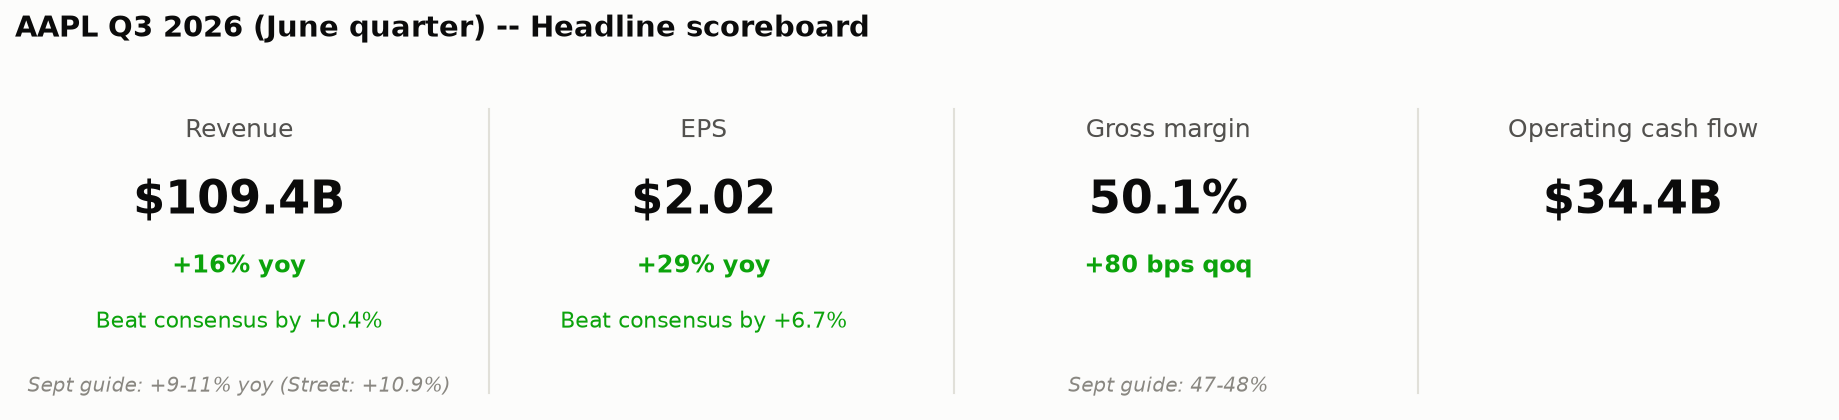
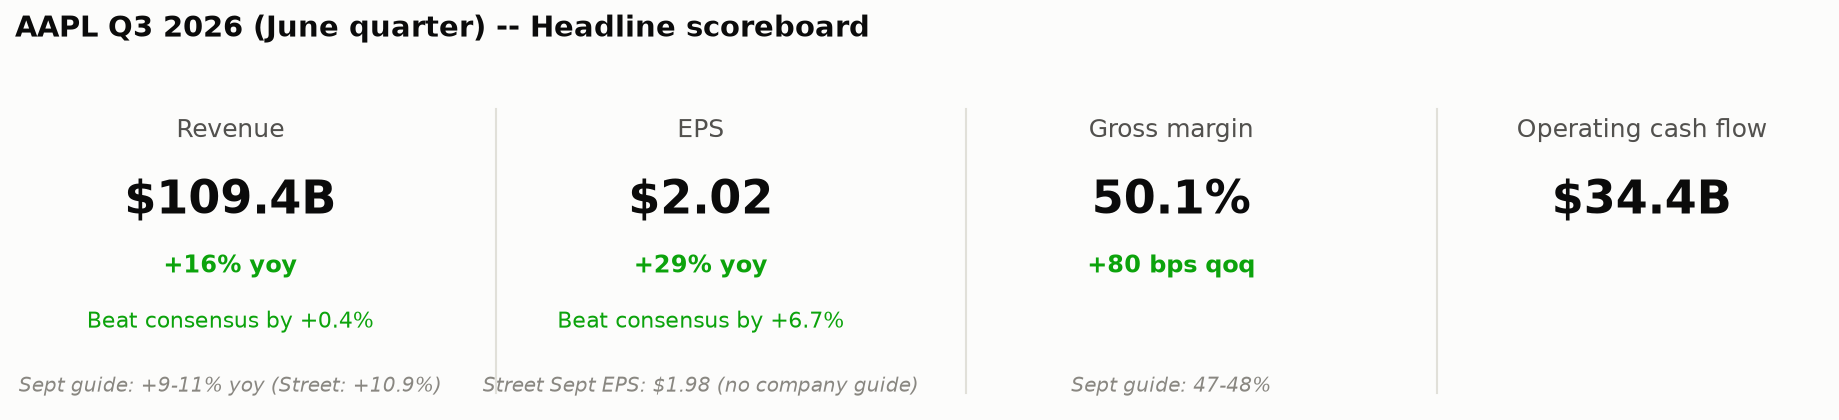
Auto-commit: 2 file(s) changed (charts.py, sample_AAPL_Q3_2026_scoreboard.png)

diff --git a/charts.py b/charts.py
@@ -100,9 +100,12 @@ def headline_scoreboard_chart(metrics: list[dict], title: str, out_path: Path) -
     """metrics: [{"label": "Revenue", "value": "$109.40B", "delta": "+16% yoy", "good": True,
     "beat": "Beat by 0.4%", "beat_good": True, "guidance": "Sept guide: 9-11% (Street: +10.9%)"},
     ...]. `delta`/`good` (yoy or qoq change), `beat`/`beat_good` (vs. analyst consensus), and
-    `guidance` (next quarter's guided range for this metric, when AAPL actually guides it) are
-    all optional and independent -- a metric with nothing real to show for one of them just
-    leaves that line out entirely, never a placeholder like "n/a" or "not estimated". A wide,
+    `guidance` (forward-looking line for next period) are all optional and independent -- a
+    metric with nothing real to show for one of them just leaves that line out entirely, never
+    a placeholder like "n/a" or "not estimated". `guidance` prefers the company's own stated
+    guide when one exists (e.g. AAPL guides revenue growth and gross margin directly); when it
+    doesn't (AAPL never guides EPS itself), fall back to the analyst consensus estimate for that
+    period instead, labeled "Street ..." so it's never mistaken for a company guide. A wide,
     short banner -- meant to span the full page width, not sit in a half-width column."""
     n = len(metrics)
     fig, axes = plt.subplots(1, n, figsize=(3.1 * n, 2.7), dpi=150)
